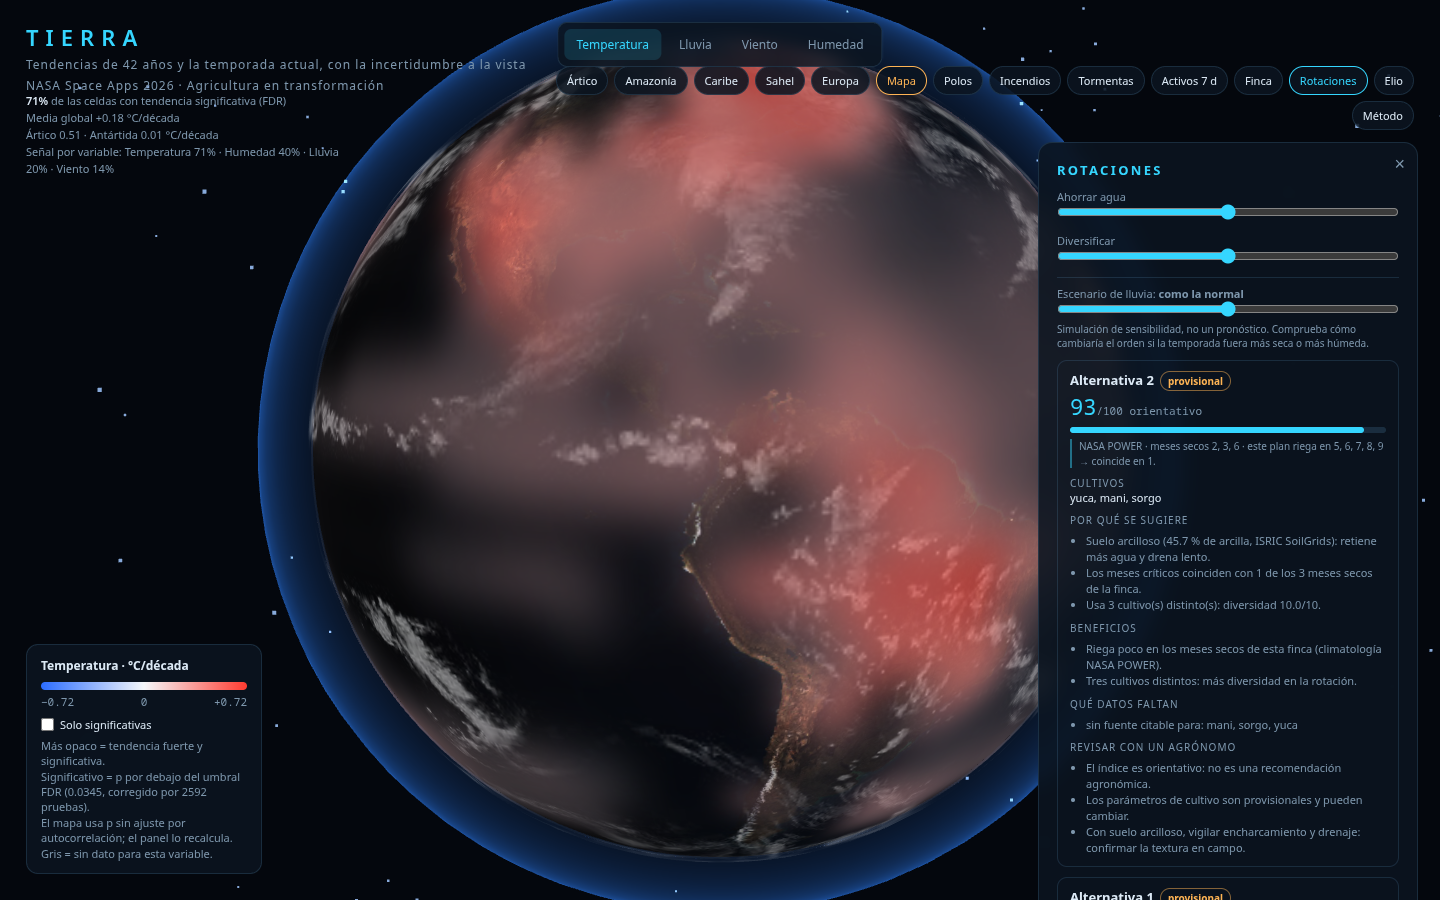
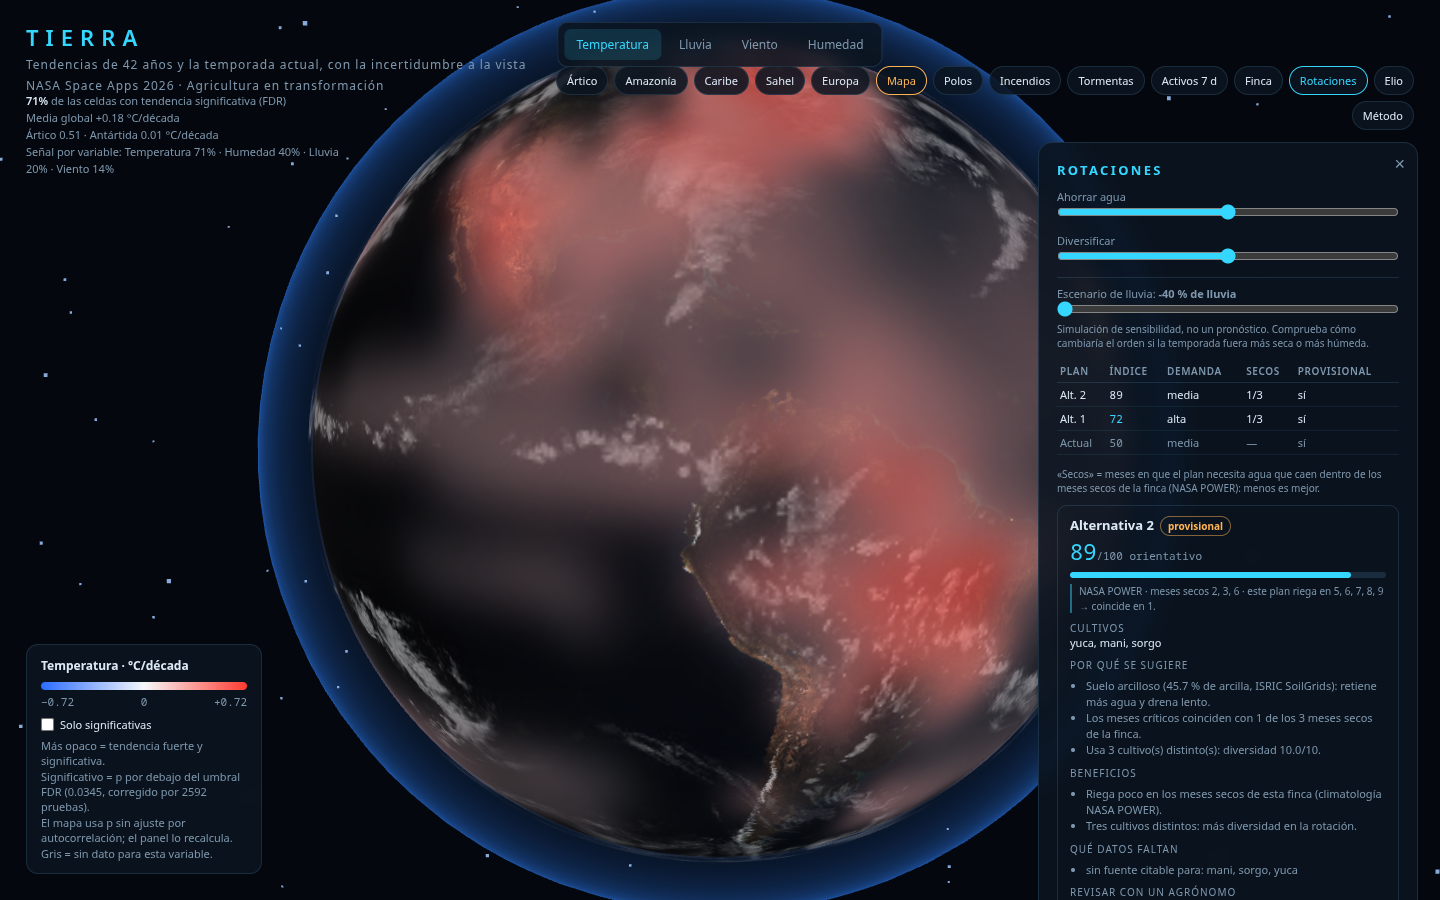
feat(ui): tabla de comparacion de las tres estrategias

diff --git a/web/index.html b/web/index.html
@@ -126,6 +126,17 @@
   #finca-pronostico b { display: block; color: var(--texto); font-size: 11px; }
   #finca-pie, #rotaciones-pie { font-size: 10px; color: var(--secundario); margin-top: 10px; line-height: 1.5; }
   #finca-avisos { font-size: 11px; color: var(--ambar); margin-top: 6px; line-height: 1.4; }
+  #rotaciones-tabla table { width: 100%; border-collapse: collapse; font-size: 11px;
+    margin-bottom: 12px; }
+  #rotaciones-tabla th { text-align: left; color: var(--secundario); font-weight: 600;
+    font-size: 10px; letter-spacing: .06em; text-transform: uppercase;
+    border-bottom: 1px solid var(--borde); padding: 4px 3px; }
+  #rotaciones-tabla td { padding: 4px 3px; border-bottom: 1px solid rgba(120,200,255,.08); }
+  #rotaciones-tabla td.num { font-family: ui-monospace, Consolas, monospace; color: var(--cian); }
+  #rotaciones-tabla tr.actual td { color: var(--secundario); }
+  #rotaciones-tabla tr.gana td { color: var(--texto); }
+  #rotaciones-tabla .nota { font-size: 10px; color: var(--secundario); line-height: 1.4;
+    margin-bottom: 10px; display: block; }
   .tarjeta { border: 1px solid var(--borde); border-radius: 10px; padding: 10px 12px; margin-bottom: 10px; }
   .tarjeta h3 { font-size: 13px; color: var(--texto); }
   .indice { font-family: ui-monospace, Consolas, monospace; font-size: 22px; color: var(--cian); }
@@ -267,6 +278,7 @@
     <input type="range" id="escenario-lluvia" min="-40" max="40" value="0" step="5">
     <span class="nota-escenario">Simulación de sensibilidad, no un pronóstico.
       Comprueba cómo cambiaría el orden si la temporada fuera más seca o más húmeda.</span></div>
+  <div id="rotaciones-tabla"></div>
   <div id="rotaciones-tarjetas"></div>
   <div id="rotaciones-pie"></div>
 </aside>
@@ -1911,6 +1923,27 @@ function textoCultivos(estrategia) {
   return 'sin definir (validar con el agricultor)';
 }
 
+function tablaComparativa(lista, finca) {
+  const secos = (finca && finca.meses_secos) || [];
+  const filas = lista.map((e) => {
+    const criticos = e.meses_criticos || [];
+    const coincide = criticos.length && secos.length
+      ? `${criticos.filter((m) => secos.includes(m)).length}/${secos.length}`
+      : '—';
+    const nombre = e.id === 'actual' ? 'Actual' : (e.titulo || e.id).replace('Alternativa ', 'Alt. ');
+    const clases = [e.id === 'actual' ? 'actual' : '',
+                    e.calculado === lista[0].calculado ? 'gana' : ''].join(' ').trim();
+    return `<tr class="${clases}"><td>${nombre}</td>`
+      + `<td class="num">${e.calculado === null ? '—' : e.calculado}</td>`
+      + `<td>${e.demanda_agua || '—'}</td><td>${coincide}</td>`
+      + `<td>${e.provisional ? 'sí' : 'no'}</td></tr>`;
+  }).join('');
+  return `<table><thead><tr><th>Plan</th><th>Índice</th><th>Demanda</th>`
+    + `<th>Secos</th><th>Provisional</th></tr></thead><tbody>${filas}</tbody></table>`
+    + '<span class="nota">«Secos» = meses en que el plan necesita agua que caen dentro de '
+    + 'los meses secos de la finca (NASA POWER): menos es mejor.</span>';
+}
+
 function evidenciaNasa(estrategia) {
   const finca = (ROTACIONES.fincas || []).find((f) => f.id === fincaId);
   const secos = (finca && finca.meses_secos) || [];
@@ -1938,6 +1971,7 @@ function pintarRotaciones() {
   const lista = (finca.estrategias || [])
     .map((e) => ({ ...e, calculado: indicesRotaciones(e) }))
     .sort((a, b) => (b.calculado ?? -1) - (a.calculado ?? -1));
+  document.getElementById('rotaciones-tabla').innerHTML = tablaComparativa(lista, finca);
   caja.innerHTML = lista.map((e) => {
     const puntos = e.calculado === null ? 'sin dato' : e.calculado;
     return `<div class="tarjeta">

diff --git a/tests/test_app_navegador.py b/tests/test_app_navegador.py
@@ -91,6 +91,11 @@ class TestApp(unittest.TestCase):
         pag.wait_for_selector("#rotaciones.visible")
         tarjetas = pag.eval_on_selector_all(".tarjeta", "e => e.length")
         self.assertEqual(tarjetas, 3)
+        # La comparación de las tres estrategias, en una tabla.
+        cabeceras = pag.eval_on_selector_all("#rotaciones-tabla th",
+                                            "e => e.map(x => x.textContent)")
+        self.assertEqual(cabeceras, ["Plan", "Índice", "Demanda", "Secos", "Provisional"])
+        self.assertEqual(pag.eval_on_selector_all("#rotaciones-tabla tbody tr", "e => e.length"), 3)
         self.assertIn("NASA", pag.inner_text(".tarjeta"))
         rotulos = pag.eval_on_selector_all(".tarjeta:nth-child(1) .rotulo",
                                            "e => e.map(x => x.textContent)")

diff --git a/docs/demo.md b/docs/demo.md
@@ -31,8 +31,11 @@ rotación conviene y por qué."
   Por eso va la fecha, y por eso no lo mezclamos con la tendencia de 40 años."
 
 **2:30–3:00 · Rotaciones y cierre**
-- Abrir **Rotaciones**: cada tarjeta muestra la **evidencia NASA** (los meses
-  secos de la finca) y la coincidencia con los meses en que el plan necesita agua.
+- Abrir **Rotaciones**: arriba hay una **tabla de comparación** de los tres
+  planes (índice, demanda, meses secos que toca, si es provisional). Es la
+  comparación que pide el desafío, en una mirada.
+- Cada tarjeta añade la **evidencia NASA** (los meses secos de la finca) y la
+  coincidencia con los meses en que el plan necesita agua.
 - Mover el deslizador "Ahorrar agua" y el **escenario de sequía** (-40 %): los
   índices bajan y se ve qué plan aguanta peor.
 - Mostrar que el orden cambia y que cada tarjeta dice **por qué**, **qué falta** y
